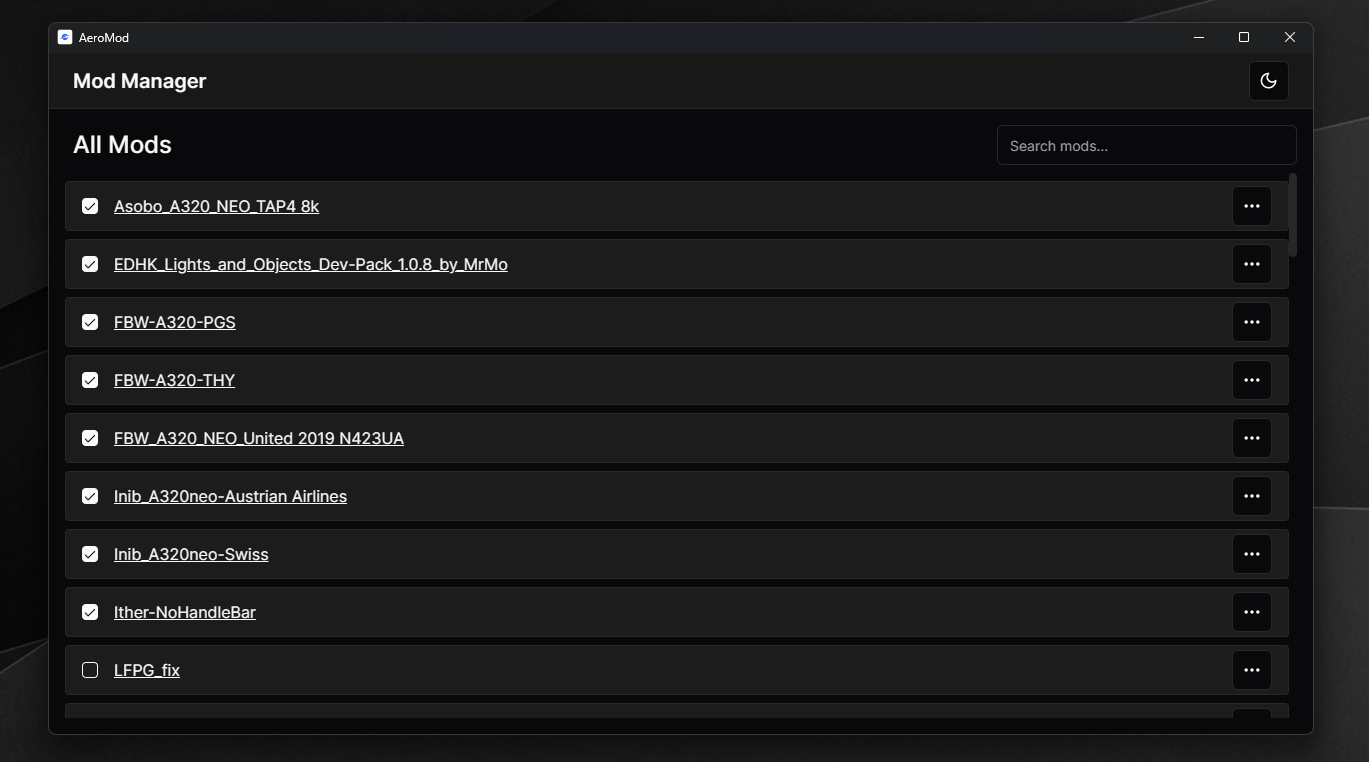
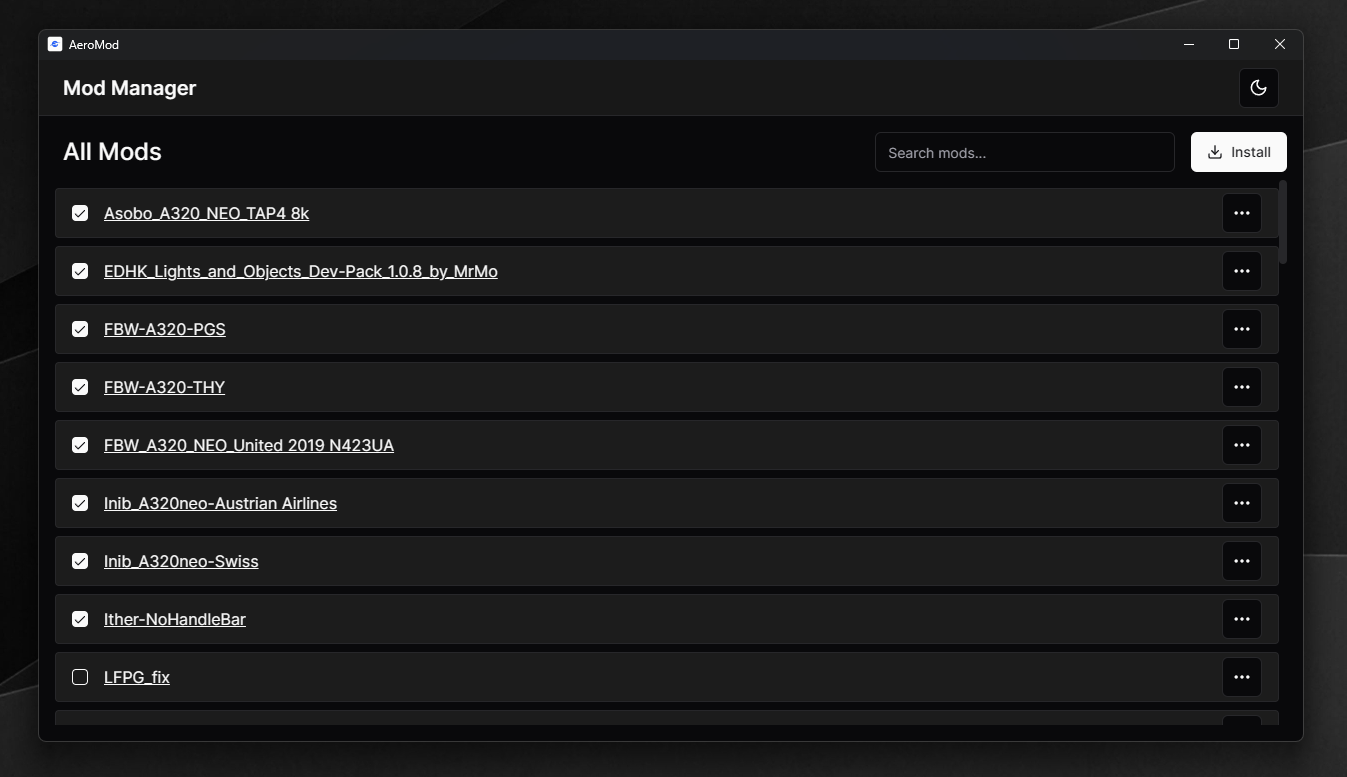
feat: add mod installation

diff --git a/frontend/src/routes/home.tsx b/frontend/src/routes/home.tsx
@@ -1,7 +1,8 @@
 import { useMemo, useState } from "react";
-import { useQuery } from "@tanstack/react-query";
-import { CircleAlert, RefreshCw } from "lucide-react";
+import { useMutation, useQuery } from "@tanstack/react-query";
+import { CircleAlert, Download, Loader2, RefreshCw } from "lucide-react";
 import { GetMods } from "@wailsjs/go/main/App";
+import { installMod } from "@/lib/install";
 
 import { Input } from "@/components/ui/input";
 import { Button } from "@/components/ui/button";
@@ -17,6 +18,9 @@ export default function HomePage() {
     queryKey: ["getMods"],
     queryFn: async () => GetMods(),
     retry: false,
+  });
+  const installMutation = useMutation({
+    mutationFn: installMod,
   });
 
   const [search, setSearch] = useState<string>("");
@@ -47,12 +51,26 @@ export default function HomePage() {
     <div className="flex h-full flex-col gap-y-2 px-4 py-4">
       <div className="flex w-full items-center justify-between">
         <h1 className="px-2 text-2xl font-medium">All Mods</h1>
-        <Input
-          value={search}
-          onChange={(e) => setSearch(e.target.value)}
-          className="w-[300px]"
-          placeholder="Search mods..."
-        />
+        <div className="flex items-center gap-x-4">
+          <Input
+            value={search}
+            onChange={(e) => setSearch(e.target.value)}
+            className="w-[300px]"
+            placeholder="Search mods..."
+          />
+          <Button
+            onClick={() => installMutation.mutate()}
+            disabled={installMutation.isPending}
+            className="gap-x-2"
+          >
+            {installMutation.isPending ? (
+              <Loader2 className="size-4 animate-spin" />
+            ) : (
+              <Download className="size-4" />
+            )}
+            Install
+          </Button>
+        </div>
       </div>
       <ModList mods={filteredMods} loading={isPending} />
     </div>

diff --git a/frontend/src/lib/install.ts b/frontend/src/lib/install.ts
@@ -1,0 +1,14 @@
+import { toast } from "sonner";
+import { InstallMod } from "@wailsjs/go/main/App";
+
+export async function installMod() {
+  try {
+    const installed = await InstallMod();
+    if (!installed) return;
+
+    toast.success("Mod installed successfully!");
+  } catch (err) {
+    console.error(err);
+    toast.error("Failed to install mod. Please try again.");
+  }
+}

diff --git a/utils/utils.go b/utils/utils.go
@@ -1,12 +1,15 @@
 package utils
 
 import (
+	"archive/zip"
 	"encoding/base64"
 	"fmt"
 	"io"
 	"io/fs"
 	"os"
 	"os/exec"
+	"path/filepath"
+	"strings"
 	"syscall"
 )
 
@@ -101,4 +104,147 @@ func Base64EncodeFile(filePath string) (string, error) {
 
 	base64str := base64.StdEncoding.EncodeToString(data)
 	return base64str, nil
+}
+
+func Unzip(src, dest string) error {
+	r, err := zip.OpenReader(src)
+	if err != nil {
+		return err
+	}
+	defer func() {
+		if err := r.Close(); err != nil {
+			panic(err)
+		}
+	}()
+
+	os.MkdirAll(dest, 0755)
+
+	extractAndWriteFile := func(f *zip.File) error {
+		rc, err := f.Open()
+		if err != nil {
+			return err
+		}
+		defer func() {
+			if err := rc.Close(); err != nil {
+				panic(err)
+			}
+		}()
+
+		path := filepath.Join(dest, f.Name)
+
+		// check for ZipSlip (directory traversal)
+		if !strings.HasPrefix(path, filepath.Clean(dest)+string(os.PathSeparator)) {
+			return fmt.Errorf("illegal file path: %s", path)
+		}
+
+		if f.FileInfo().IsDir() {
+			os.MkdirAll(path, f.Mode())
+		} else {
+			os.MkdirAll(filepath.Dir(path), f.Mode())
+			f, err := os.OpenFile(path, os.O_WRONLY|os.O_CREATE|os.O_TRUNC, f.Mode())
+			if err != nil {
+				return err
+			}
+			defer func() {
+				if err := f.Close(); err != nil {
+					panic(err)
+				}
+			}()
+
+			_, err = io.Copy(f, rc)
+			if err != nil {
+				return err
+			}
+		}
+		return nil
+	}
+
+	for _, f := range r.File {
+		err := extractAndWriteFile(f)
+		if err != nil {
+			return err
+		}
+	}
+
+	return nil
+}
+
+// CopyFile copies a single file from src to dst
+func CopyFile(src, dst string) error {
+	sourceFileStat, err := os.Stat(src)
+	if err != nil {
+		return err
+	}
+
+	if !sourceFileStat.Mode().IsRegular() {
+		return fmt.Errorf("%s is not a regular file", src)
+	}
+
+	source, err := os.Open(src)
+	if err != nil {
+		return err
+	}
+
+	defer func() {
+		if err := source.Close(); err != nil {
+			panic(err)
+		}
+	}()
+
+	destination, err := os.Create(dst)
+	if err != nil {
+		return err
+	}
+
+	defer func() {
+		if err := destination.Close(); err != nil {
+			panic(err)
+		}
+	}()
+
+	_, err = io.Copy(destination, source)
+	return err
+}
+
+// CopyDir recursively copies a directory tree
+func CopyDir(src string, dst string) error {
+	src = filepath.Clean(src)
+	dst = filepath.Clean(dst)
+
+	srcInfo, err := os.Stat(src)
+	if err != nil {
+		return err
+	}
+	if !srcInfo.IsDir() {
+		return fmt.Errorf("%s is not a directory", src)
+	}
+
+	err = os.MkdirAll(dst, srcInfo.Mode())
+	if err != nil {
+		return err
+	}
+
+	entries, err := os.ReadDir(src)
+	if err != nil {
+		return err
+	}
+
+	for _, entry := range entries {
+		srcPath := filepath.Join(src, entry.Name())
+		dstPath := filepath.Join(dst, entry.Name())
+
+		if entry.IsDir() {
+			err = CopyDir(srcPath, dstPath)
+			if err != nil {
+				return err
+			}
+		} else {
+			err = CopyFile(srcPath, dstPath)
+			if err != nil {
+				return err
+			}
+		}
+	}
+
+	return nil
 }

diff --git a/app.go b/app.go
@@ -4,9 +4,12 @@ import (
 	"context"
 	"fmt"
 	"log"
+	"path/filepath"
+	"strings"
 
 	"github.com/fly2z/aeromod/internal/config"
 	"github.com/fly2z/aeromod/internal/msfs"
+	"github.com/fly2z/aeromod/utils"
 	"github.com/wailsapp/wails/v2/pkg/runtime"
 )
 
@@ -171,4 +174,58 @@ func (a *App) GetModThumbnail(modName string) (string, error) {
 	}
 
 	return thumbnail, nil
+}
+
+func (a *App) InstallMod() (bool, error) {
+	archive, err := runtime.OpenFileDialog(a.ctx, runtime.OpenDialogOptions{
+		Title: "Choose Mod",
+	})
+
+	if err != nil {
+		return false, fmt.Errorf("failed to open directory dialog: %w", err)
+	}
+
+	if archive == "" {
+		return false, nil
+	}
+
+	ext := filepath.Ext(archive)
+	if ext != ".zip" {
+		return false, fmt.Errorf("unsupported archive format")
+	}
+
+	archiveDest := strings.TrimSuffix(archive, ext)
+
+	err = utils.Unzip(archive, archiveDest)
+	if err != nil {
+		return false, err
+	}
+
+	defer func() {
+		err := utils.Rmdir(archiveDest)
+		if err != nil {
+			log.Printf("failed to cleanup extracted archive: %s\n", filepath.Base(archiveDest))
+		}
+	}()
+
+	mods, err := msfs.FindMods(archiveDest)
+	if err != nil {
+		return false, fmt.Errorf("failed to find mods: %w", err)
+	}
+
+	fmt.Printf("\n\n\n\nFOUND %d MODS\n\n\n\n", len(mods))
+
+	if len(mods) < 1 {
+		return false, nil
+	}
+
+	for _, m := range mods {
+		err := utils.CopyDir(m, filepath.Join(a.config.ModFolder, filepath.Base(m)))
+		if err != nil {
+			log.Printf("failed to move mod: %v\n", err)
+			continue
+		}
+	}
+
+	return true, nil
 }

diff --git a/internal/msfs/utils.go b/internal/msfs/utils.go
@@ -1,6 +1,7 @@
 package msfs
 
 import (
+	"fmt"
 	"os"
 	"path/filepath"
 )
@@ -66,4 +67,41 @@ func FindSimCommunityFolder() (string, bool) {
 		return "", false
 	}
 	return filepath.Join(pkgDir, "Community"), true
+}
+
+func FindMods(path string) ([]string, error) {
+	info, err := os.Stat(path)
+	if err != nil {
+		return nil, err
+	}
+	if !info.IsDir() {
+		return nil, fmt.Errorf("provided path is not a directory")
+	}
+
+	var foundMods []string
+
+	err = filepath.Walk(path, func(root string, info os.FileInfo, err error) error {
+		if err != nil {
+			return err
+		}
+
+		// skip non-directory entries
+		if !info.IsDir() {
+			return nil
+		}
+
+		// check if directory contains a manifest.json file
+		manifestPath := filepath.Join(root, "manifest.json")
+		if _, err := os.Stat(manifestPath); err == nil {
+			foundMods = append(foundMods, root)
+		}
+
+		return nil
+	})
+
+	if err != nil {
+		return nil, err
+	}
+
+	return foundMods, nil
 }
